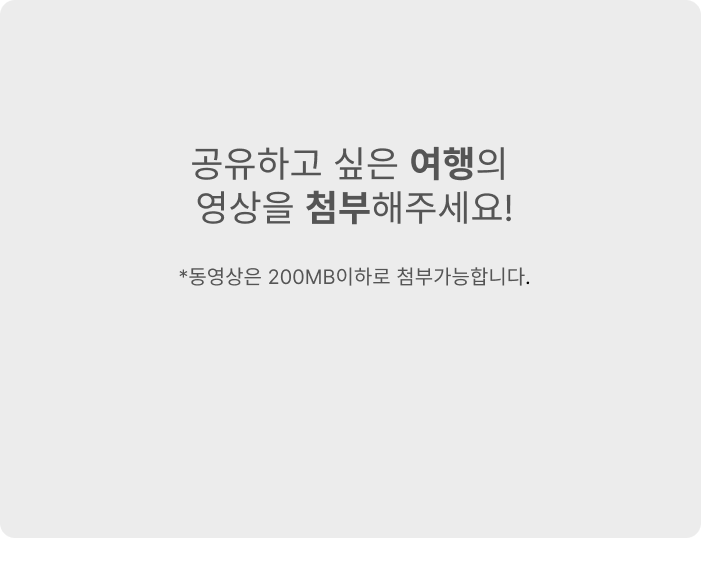
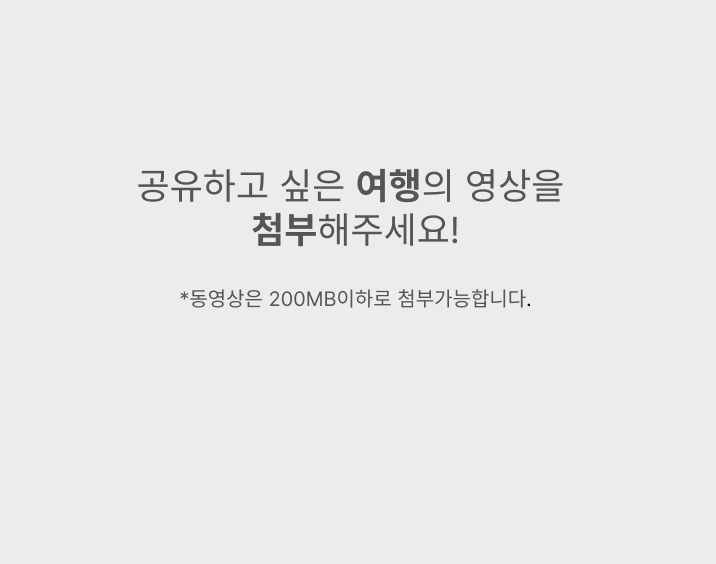
[fix] 수정

Changed region(s): [[0.1872, 0.2424, 0.7801, 0.5455]]

diff --git a/src/components/story/AddStory.jsx b/src/components/story/AddStory.jsx
@@ -35,7 +35,7 @@ const AddStory = () => {
   const [isSuccess, setIsSuccess] = useState(false);
 
   const validateSelectedFile = (e) => {
-    const MAX_FILE_SIZE = 20; // 200MB
+    const MAX_FILE_SIZE = 209715200; // 200MB
     const fileSizeKiloBytes = videos.size / 1024;
 
     if (fileSizeKiloBytes > MAX_FILE_SIZE) {
@@ -108,9 +108,6 @@ const AddStory = () => {
                 onClick={() => filePicekerRef.current.click()}
               >
                 <img src={video} alt="영상을 업로드 해주세요." />
-                <div className="videoAddInfo">
-                  <img src={videoInfo} alt="영상첨부시정보" />
-                </div>
               </div>
               {videoPreview && (
                 <div className="videoXBtn" onClick={clearFiles}>
@@ -118,7 +115,9 @@ const AddStory = () => {
                 </div>
               )}
             </div>
-
+            <div className="videoAddInfo">
+              <img src={videoInfo} alt="영상첨부정보" />
+            </div>
             <div className="videoPreview">
               {videoPreview != null && <video src={videoPreview} />}
             </div>

diff --git a/src/components/mypage/MyPlanPost.jsx b/src/components/mypage/MyPlanPost.jsx
@@ -79,7 +79,7 @@ const MyPlanPost = () => {
               <input
                 type="text"
                 style={{ width: "75%", border: "none" }}
-                placeholder="날짜를 선택하고, 제목을 입력해주세요."
+                placeholder="날짜를 선택하고, 제목을 작성해주세요."
                 onChange={(e) => {
                   setTitle(e.target.value);
                 }}
@@ -105,7 +105,7 @@ const MyPlanPost = () => {
             <div className="MyplanPostContents">
               <textarea
                 name="content"
-                placeholder="일정을 입력해주세요."
+                placeholder="*사진첨부필수*  일정을 작성해주세요. "
                 onChange={(e) => {
                   setContent(e.target.value);
                 }}
